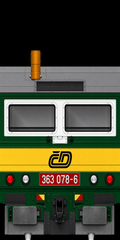
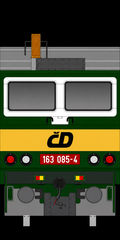
Update texture images and enhance remastering script with palette extraction and improved prompt handling

diff --git a/scripts/remaster_textures.py b/scripts/remaster_textures.py
@@ -75,7 +75,16 @@ TEXTURE_SUBJECTS: list[tuple[str, str]] = [
     ("y", "the ROOF / top-down view of the locomotive (roof panels and seams, "
           "vents, fan grilles, pantograph mounts, insulators, cable runs)"),
     ("z", "the long SIDE elevation of the locomotive body (side windows, doors, "
-          "louvres/grilles, body panel seams, numbering and markings along the side)"),
+          "louvres/grilles, body panel seams, numbering and markings along the side, "
+          "and a row of wheels along the bottom). The wheels must be perfectly "
+          "CIRCULAR in outline (a round rim, not oval or elliptical) and of equal size, "
+          "evenly spaced; keep each wheel's internal structure — hub, axle, spokes/rays "
+          "and rim — as in the source, do NOT fill them in as plain solid discs. The "
+          "bottom of each wheel must sit EXACTLY on the bottom edge of the texture sheet, so the "
+          "lowest pixels of the wheels are the very bottom row of the image with no gap "
+          "beneath. Do NOT draw any rail, track, sleeper, ground, ground line, baseline, "
+          "platform, shadow or any strip below the wheels — there is nothing under the "
+          "wheels, the image simply ends at the bottom of the wheels"),
     ("image", "a small preview thumbnail showing the whole locomotive"),
 ]
 DEFAULT_SUBJECT = "a flat UV texture sheet for one part of a locomotive"
@@ -97,14 +106,16 @@ FLAT_TEMPLATE = (
     "recover plausible fine detail (panel seams, rivets, window frames, paint, "
     "metal surfaces), and produce NO pixelation, blockiness or jagged/aliased edges. "
     "Do NOT add new parts, new views, extra vehicles or imagined detail. Preserve "
-    "the original layout, proportions, orientation and framing EXACTLY. Match the "
-    "input's framing one-to-one: FILL the output frame exactly as the input fills "
-    "its own frame, all the way to every edge and corner. Do NOT zoom in, crop, "
-    "shrink or re-centre the subject, and do NOT add any margins, borders or "
-    "background bars — if the input content runs to the edges, the output must too. "
-    "Keep every marking, logo, number and text string in its "
-    "original position and shape. The result must read as the SAME flat texture "
-    "sheet at higher resolution, never a 3D picture of a train."
+    "the original layout, proportions, orientation and framing EXACTLY. Reproduce "
+    "the input's framing one-to-one: the input may be LETTERBOXED with solid black "
+    "bars/margins — KEEP those black bars exactly where they are, do NOT draw into "
+    "them, and do NOT enlarge, zoom, shrink, crop or re-centre the train to fill "
+    "them; keep the train at its current size and position within its band. Do not "
+    "stretch or squash the content: aspect ratios must be preserved, so round shapes "
+    "(wheels, buffers, lamps) stay perfectly round and not oval. Keep every marking, "
+    "logo, number and text string in its original position and shape. The result "
+    "must read as the SAME flat texture sheet at higher resolution, never a 3D "
+    "picture of a train."
 )
 
 # The loco thumbnail (image.bmp) is genuinely a small 3D preview render, not a flat
@@ -115,6 +126,9 @@ THUMBNAIL_TEMPLATE = (
     "keep the exact same locomotive, livery, colours, camera angle, pose and "
     "composition. Sharpen edges, clean up aliasing and JPEG/pixel artefacts, and "
     "recover fine detail (panel lines, windows, glass, metal, markings, lights). "
+    "Render the side windows, doors and body markings to match THIS locomotive's "
+    "actual side texture sheets and the reference facts below (same window count and "
+    "shape for the side that is shown), not a generic locomotive. "
     "Do NOT change the design, repaint it, move the camera, add scenery or invent "
     "new text — just a faithful, higher-resolution, cleaner version of the same "
     "preview. Keep the background as in the source."
@@ -146,11 +160,13 @@ def is_sparse(stem: str) -> bool:
     return stem.lower().startswith(SPARSE_PREFIXES)
 
 
-def build_prompt(stem: str, facts: str = "") -> tuple[str, str]:
+def build_prompt(stem: str, facts: str = "", palette: str = "") -> tuple[str, str]:
     """Return (prompt, prompt_hash) tailored to one texture.
 
     ``facts`` is the per-model text read from all of its sheets (Pass 1); when
     present it is appended so the model renders numbers/markings correctly.
+    ``palette`` is the model's exact livery hex colours (same for every sheet) so
+    shades stay consistent across sheets.
     """
     if is_thumbnail(stem):
         prompt = THUMBNAIL_TEMPLATE.format(scale=UPSCALE)
@@ -158,9 +174,22 @@ def build_prompt(stem: str, facts: str = "") -> tuple[str, str]:
         prompt = FLAT_TEMPLATE.format(subject=texture_subject(stem), scale=UPSCALE)
     if facts:
         prompt += (
-            " Reference facts read from all texture sheets of this same locomotive: "
-            f"{facts} Use these to render any running number, lettering or marking on "
-            "THIS sheet to match exactly; do not invent different digits or text."
+            " Reference facts read from all texture sheets of this same locomotive "
+            f"(facts may be labelled by sheet filename):\n{facts}\nUse the facts that "
+            "apply to THIS sheet to render its running number, lettering, markings AND "
+            "its window layout/shape to match. The two sides of the locomotive can "
+            "legitimately differ, so follow the facts for THIS specific sheet rather "
+            "than copying another side. Do not invent different digits, text or window "
+            "shapes. Reproduce any operator logo/emblem EXACTLY as it appears in the "
+            "source image (identical shape, letters and any diacritics such as the caron "
+            "in 'ČD') — do not redesign it or replace it with a generic or different logo."
+        )
+    if palette:
+        prompt += (
+            f" Livery colour palette — use these EXACT colours and no others for the "
+            f"paintwork, identical on every sheet of this locomotive: {palette}. Match "
+            "these hex values precisely (e.g. the same single yellow for the band and "
+            "the same green for the body) so all sheets share one consistent livery."
         )
     return prompt, hashlib.sha256(prompt.encode("utf-8")).hexdigest()
 
@@ -222,6 +251,37 @@ def bmp_to_png_bytes(bmp_path: Path) -> tuple[bytes, tuple[int, int]]:
     return buf.getvalue(), img.size
 
 
+def extract_palette(paths: list[Path], k: int = 5) -> str:
+    """Deterministically sample the dominant livery colours of a model.
+
+    Quantises the body sheets (sides/ends/roof — skips the mostly-black gear/pant
+    sheets and the thumbnail), drops the near-black UV background, and returns the
+    top ``k`` colours as a hex string. Injecting the SAME palette into every sheet's
+    prompt keeps shades consistent across sheets (e.g. x_both's yellow == z_dec's).
+    """
+    bodies = [Image.open(p).convert("RGB") for p in paths
+              if not is_sparse(p.stem) and not is_thumbnail(p.name)]
+    if not bodies:
+        return ""
+    width = max(b.width for b in bodies)
+    canvas = Image.new("RGB", (width, sum(b.height for b in bodies)), (0, 0, 0))
+    y = 0
+    for b in bodies:
+        canvas.paste(b, (0, y))
+        y += b.height
+    quant = canvas.quantize(colors=16, method=Image.MEDIANCUT)
+    palette = quant.getpalette()
+    hexes: list[str] = []
+    for _count, idx in sorted(quant.getcolors(), reverse=True):
+        r, g, b = palette[idx * 3:idx * 3 + 3]
+        if r < 24 and g < 24 and b < 24:
+            continue  # skip the black UV background
+        hexes.append(f"#{r:02X}{g:02X}{b:02X}")
+        if len(hexes) >= k:
+            break
+    return ", ".join(hexes)
+
+
 def pick_size(w: int, h: int) -> str:
     """Closest supported output size by aspect ratio."""
     ratio = w / h if h else 1.0
@@ -230,6 +290,36 @@ def pick_size(w: int, h: int) -> str:
     if ratio < 0.77:
         return SIZE_PORTRAIT
     return SIZE_SQUARE
+
+
+def letterbox_to_size(img: Image.Image, api_w: int, api_h: int
+                      ) -> tuple[Image.Image, tuple[float, float, float, float]]:
+    """Fit ``img`` into an (api_w, api_h) frame WITHOUT distortion (black bars).
+
+    Returns the framed image plus the content box as fractions
+    ``(left, top, right, bottom)`` of the frame. Preserving aspect this way keeps
+    circles circular (round wheels): the content sub-rectangle has the source
+    aspect, and after the model edit we crop that exact box back out and scale it
+    uniformly to the 4x target — so no squish/stretch is ever introduced.
+    """
+    img = img.convert("RGB")
+    w, h = img.size
+    scale = min(api_w / w, api_h / h)
+    cw, ch = max(1, round(w * scale)), max(1, round(h * scale))
+    left, top = (api_w - cw) // 2, (api_h - ch) // 2
+    canvas = Image.new("RGB", (api_w, api_h), (0, 0, 0))
+    canvas.paste(img.resize((cw, ch), Image.LANCZOS), (left, top))
+    box = (left / api_w, top / api_h, (left + cw) / api_w, (top + ch) / api_h)
+    return canvas, box
+
+
+def crop_fraction_resize(img: Image.Image, box: tuple[float, float, float, float],
+                         tw: int, th: int) -> Image.Image:
+    """Crop ``img`` to the fractional ``box`` then LANCZOS-resize to (tw, th)."""
+    img = img.convert("RGB")
+    w, h = img.size
+    crop = (round(box[0] * w), round(box[1] * h), round(box[2] * w), round(box[3] * h))
+    return img.crop(crop).resize((tw, th), Image.LANCZOS)
 
 
 def apply_black_mask(final: Image.Image, source: Image.Image, threshold: int = 16) -> Image.Image:
@@ -354,15 +444,27 @@ VISION_UPSCALE_W = 512   # enlarge each tiny sheet before sending so text is leg
 
 FACTS_PROMPT = (
     "These images are the low-resolution texture sheets of a single old 3D train "
-    "model (different views of the SAME locomotive: sides, ends, roof, gear, and a "
-    "preview thumbnail). Read them together and report concise PLAIN-TEXT facts that "
-    "should stay consistent across all sheets, focusing on text that the sheets share:\n"
+    "model (different views of the SAME locomotive: side elevations, end faces, roof, "
+    "gear, and a preview thumbnail). Read them together and report concise PLAIN-TEXT "
+    "facts, LABELLED BY SHEET FILENAME where they differ. Cover:\n"
     "- every running/serial number and registration plate you can read, with the "
     "EXACT digits, and which sheet shows it most clearly\n"
-    "- railway/operator lettering, logos and any other markings\n"
-    "- the livery colours and their arrangement\n"
-    "Be precise about digits. If a number is partly illegible, give your best single "
-    "reading. Keep it short (a few lines); do not describe geometry or shape."
+    "- railway/operator lettering and any other markings\n"
+    "- the operator LOGO/EMBLEM: describe it precisely — the exact letters (with any "
+    "diacritics, e.g. 'ČD' has a caron over the C), its style/shape, colour and where "
+    "it sits. State that it must be reproduced exactly, not redrawn as a generic logo\n"
+    "- the livery colours and their arrangement, described precisely (e.g. which exact "
+    "green, which exact yellow) and confirm the SAME shades are used on every sheet\n"
+    "- the SIDE WINDOW layout of each side sheet: how many windows/openings, their "
+    "shape (rectangular, rounded-corner, square or round), how they are grouped and "
+    "roughly where they sit along the side. IMPORTANT: the two sides of this "
+    "locomotive (e.g. z_dec vs z_inc) may GENUINELY DIFFER, so describe each side "
+    "sheet separately and state which side the preview thumbnail shows.\n"
+    "- the wheels along the bottom of the side sheets: how many, and confirm they are "
+    "round and sit right at the very bottom edge of the sheet (there is NO rail, track "
+    "or ground drawn beneath them).\n"
+    "Be precise about digits. If something is partly illegible, give your best single "
+    "reading. Keep it reasonably short."
 )
 
 
@@ -420,7 +522,8 @@ def call_openai_edit(client, primary_png: bytes, prompt: str, size: str, quality
 
 def process_texture(
     tex_path: Path, out_dir: Path, slug: str, model_rel: str, client,
-    quality: str, dry_run: bool, db_copy: bool, black_mask: bool, facts: str = "",
+    quality: str, dry_run: bool, db_copy: bool, black_mask: bool,
+    facts: str = "", palette: str = "",
 ) -> dict:
     """Remaster one texture. Returns its manifest entry."""
     stem = tex_path.stem
@@ -428,7 +531,7 @@ def process_texture(
     sparse = is_sparse(stem)
     masked = black_mask and sparse  # body sheets are never masked (avoids pixelation)
     src_hash = file_content_hash(tex_path)
-    prompt, prompt_hash = build_prompt(stem, facts)
+    prompt, prompt_hash = build_prompt(stem, facts, palette)
     primary_png, (w, h) = bmp_to_png_bytes(tex_path)
     tw, th = w * UPSCALE, h * UPSCALE
     size = pick_size(w, h)
@@ -453,6 +556,7 @@ def process_texture(
         "subject": texture_subject(stem),
         "is_thumbnail": thumb,
         "masked": masked,
+        "palette": palette,
         "prompt_hash": prompt_hash,
         "source_hash": src_hash,
         "size_requested": size,
@@ -479,15 +583,16 @@ def process_texture(
         return entry
 
     try:
-        # Pre-resize the source to the exact API output size and send THAT. This
-        # forces the model to fill the whole frame (no letterbox bars, so content
-        # like the x_both cab face stays edge-to-edge), and avoids any crop. The
-        # aspect stretch here is undone when we resize the full output back to the
-        # exact 4x target below — the two resizes cancel, so the final keeps the
-        # source's proportions with nothing cut and no added margins.
+        # Letterbox the source into the API frame WITHOUT distortion (black bars),
+        # then crop the same region back out below. This keeps the scale uniform
+        # end-to-end so circles stay circular (round wheels). Stretching the source
+        # to fill the frame instead would squish wheels into ellipses whenever the
+        # source aspect is far from the API's (e.g. wide z_* side sheets at 2.8:1
+        # vs the API's max 1.5:1). The prompt tells the model to keep the bars black.
         api_w, api_h = (int(v) for v in size.split("x"))
+        framed, content_box = letterbox_to_size(original, api_w, api_h)
         api_input = io.BytesIO()
-        original.resize((api_w, api_h), Image.LANCZOS).save(api_input, "PNG")
+        framed.save(api_input, "PNG")
         resp = call_openai_edit(client, api_input.getvalue(), prompt, size, quality)
         b64 = resp.data[0].b64_json
         raw_bytes = base64.b64decode(b64)
@@ -495,7 +600,9 @@ def process_texture(
 
         out_dir.mkdir(parents=True, exist_ok=True)
         raw_path.write_bytes(raw_bytes)
-        final = ai_raw.resize((tw, th), Image.LANCZOS)
+        # Crop the content region back out (undoing the letterbox), then scale
+        # uniformly to the exact 4x target — no aspect distortion, no squished wheels.
+        final = crop_fraction_resize(ai_raw, content_box, tw, th)
         # Safety net for genuinely-sparse sheets only (gear/pant/...): force the
         # large empty UV regions back to black so the model can't leave invented
         # detail there. Body sheets and the thumbnail are never masked — masking
@@ -537,14 +644,16 @@ def main():
                         help="Do not force originally-black source pixels back to black in the output")
     parser.add_argument("--no-context", action="store_true",
                         help="Skip the Pass-1 vision read of numbers/markings from sibling sheets")
+    parser.add_argument("--refresh-facts", action="store_true",
+                        help="Force a fresh Pass-1 vision read, ignoring any cached facts")
     parser.add_argument("--dry-run", action="store_true",
                         help="Skip the API call; still write source/classical/contact/manifest")
     parser.add_argument("--limit", type=int, default=0,
                         help="Cap number of textures processed this run (0 = no cap)")
     parser.add_argument("--only", default="",
-                        help="Only process the texture with this exact name/stem "
-                             "(e.g. --only x_both, matches x_both.bmp but NOT gearx_both). "
-                             "Saves credits when debugging one texture.")
+                        help="Only process textures with these exact name(s)/stem(s), "
+                             "comma-separated (e.g. --only z_dec,z_inc — matches z_dec.bmp "
+                             "and z_inc.bmp but NOT gearx_both). Saves credits when debugging.")
     args = parser.parse_args()
 
     db_copy = not args.no_db_copy
@@ -585,8 +694,11 @@ def main():
     for mi, (_override, model_dir) in enumerate(model_dirs, 1):
         model_rel = str(model_dir.relative_to(_repo_root()))
         all_textures = collect_textures(model_dir)  # full set (always used for facts context)
-        textures = ([t for t in all_textures if args.only in (t.stem, t.name)]
-                    if args.only else all_textures)
+        if args.only:
+            wanted = {s.strip() for s in args.only.split(",") if s.strip()}
+            textures = [t for t in all_textures if wanted & {t.stem, t.name}]
+        else:
+            textures = all_textures
         if not textures:
             print(f"[{mi}/{len(model_dirs)}] {model_rel}: no textures, skipping")
             continue
@@ -615,8 +727,10 @@ def main():
             ).hexdigest()
             cached = manifest["models"].get(model_rel)
             # Reuse only a *successful* (non-empty) cached read; an empty result
-            # was a failure and must be retried, not cached forever.
-            if cached and cached.get("facts_key") == facts_key and cached.get("facts"):
+            # was a failure and must be retried, not cached forever. --refresh-facts
+            # bypasses the cache and forces a fresh read.
+            if (not args.refresh_facts and cached
+                    and cached.get("facts_key") == facts_key and cached.get("facts")):
                 facts = cached["facts"]
                 tag = "cached"
             else:
@@ -629,6 +743,12 @@ def main():
                 tag = "read"
             shown = facts.replace("\n", "\n    ") if facts else "(none)"
             print(f"  [facts] ({tag}) {model_rel}:\n    {shown}")
+
+        # Deterministic livery palette (local, no API) shared by every sheet so
+        # colours stay consistent across them (e.g. x_both's yellow == z_dec's).
+        palette = extract_palette(all_textures) if (any_work and not args.dry_run) else ""
+        if palette:
+            print(f"  [palette] {palette}")
 
         for tex in textures:
             if args.limit and processed >= args.limit:
@@ -649,7 +769,7 @@ def main():
 
             entry = process_texture(
                 tex, out_dir, slug, model_rel, client,
-                args.quality, args.dry_run, db_copy, black_mask, facts,
+                args.quality, args.dry_run, db_copy, black_mask, facts, palette,
             )
             entries[key] = entry
             save_manifest(manifest_path, manifest)  # persist after each texture
